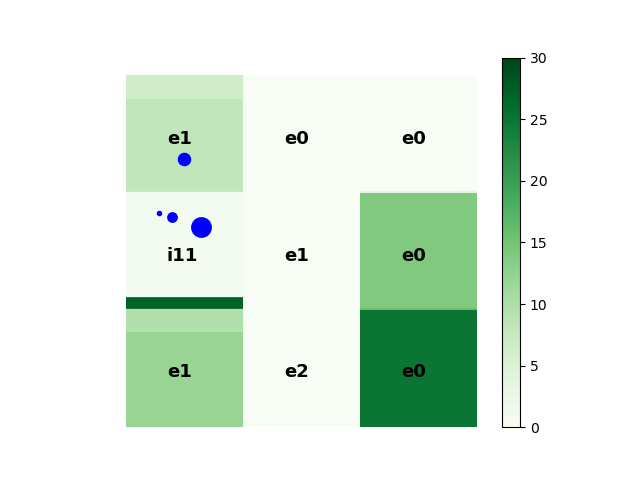
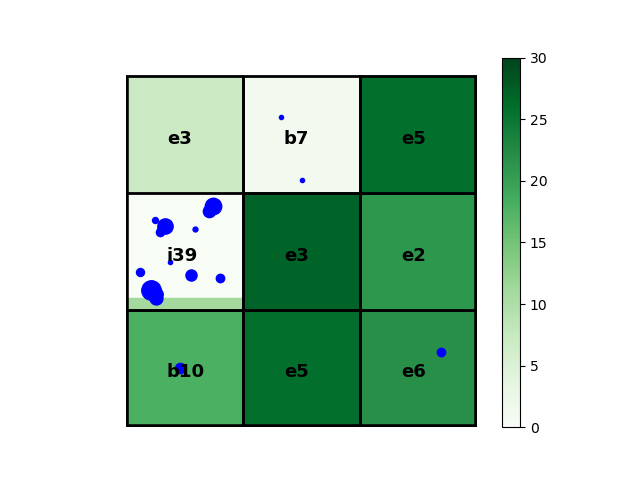
added random gradual decreasing payoff

Changed region(s): [[0.1875, 0.1562, 0.75, 0.9062], [0.4375, 0.25, 0.5, 0.3125], [0.2812, 0.2812, 0.3125, 0.3438]]

diff --git a/classCell.py b/classCell.py
@@ -1,71 +1,3 @@
-import numpy as np
-from phase import *
-import math
-
-class Cell():
-    def __init__(self, payoff, location):
-        self.payoff = payoff
-        self.location = location
-        self.hidden = True
-        self.phase = Phase.experimental
-        self.numHits = 0
-        self.lowerx, self.upperx = self.logiFunc()
-        self.numSciHits = 0
-
-    def __repr__(self):
-        "string representation of Cell"
-        return str(self.payoff)
-
-    def logiFunc(self):
-        lowSuccess = False
-        highSuccess  = False
-
-        while lowSuccess == False or highSuccess == False:
-            # set steepness and center parameters for logistic function
-            steepness = np.random.randint(1, 11)
-            center = np.random.randint(0, 10)
-            lowerx = 0
-            upperx = []
-            lowSuccess = False
-            highSuccess = False
-            for x in np.arange(0, 50, 0.01):
-                y = float(1/(1 + math.pow(math.e, -steepness*(x-center))))
-                if ((y - .01) <= 0.1) and math.floor(x) > 0:
-                    lowerx = math.floor(x)
-                    lowSuccess = True
-                    #self.phase = Phase.breakthrough
-                elif (.99 - y) <= 0.1:
-                    upperx.append(math.ceil(x))
-                    highSuccess = True
-                    #self.phase = Phase.incremental
-        return lowerx, min(upperx)
-
-    def cellQuery(self, board):
-        """returns payoff for each scientist based on conditions of a cell"""
-        original = self.payoff
-        sciPayoff = 0.0
-
-        if self.numHits > self.upperx:
-            self.phase = Phase.incremental
-        elif self.numHits > self.lowerx:
-            self.phase = Phase.breakthrough
-            self.hidden = False
-            # "discover" the cell once it hits breakthrough phase
-            if self.location not in board.discovered:
-                board.discovered.append(self.location)
-                board.undiscovered.remove(self.location)
-        if self.phase == Phase.experimental:
-            self.payoff = 0.8 * self.payoff
-            sciPayoff = 0.2 * original
-        elif self.phase == Phase.breakthrough:
-            self.payoff = 0.5 * self.payoff
-            sciPayoff = 0.5 * original
-        else:
-            self.payoff = 0.8 * self.payoff
-            sciPayoff = 0.2 * original
-        self.numHits += 1
-        return sciPayoff
-
 # import numpy as np
 # from phase import *
 # import math
@@ -77,7 +9,7 @@ class Cell():
 #         self.hidden = True
 #         self.phase = Phase.experimental
 #         self.numHits = 0
-#         self.lowerx, self.upperx, self.functionVals = self.logiFunc()
+#         self.lowerx, self.upperx = self.logiFunc()
 #         self.numSciHits = 0
 
 #     def __repr__(self):
@@ -94,7 +26,6 @@ class Cell():
 #             center = np.random.randint(0, 10)
 #             lowerx = 0
 #             upperx = []
-#             functionVals = {}
 #             lowSuccess = False
 #             highSuccess = False
 #             for x in np.arange(0, 50, 0.01):
@@ -107,13 +38,7 @@ class Cell():
 #                     upperx.append(math.ceil(x))
 #                     highSuccess = True
 #                     #self.phase = Phase.incremental
-            
-#             xval = 0
-#             while xval <= min(upperx):
-#                 yval = float(1/(1 + math.pow(math.e, -steepness*(x-center))))
-#                 functionVals[xval]=yval
-#                 xval += 1
-#         return lowerx, min(upperx), functionVals
+#         return lowerx, min(upperx)
 
 #     def cellQuery(self, board):
 #         """returns payoff for each scientist based on conditions of a cell"""
@@ -129,11 +54,101 @@ class Cell():
 #             if self.location not in board.discovered:
 #                 board.discovered.append(self.location)
 #                 board.undiscovered.remove(self.location)
-#         if self.phase == Phase.incremental:
-#             frac = np.random.random()
+#         if self.phase == Phase.experimental:
+#             self.payoff = 0.8 * self.payoff
+#             sciPayoff = 0.2 * original
+#         elif self.phase == Phase.breakthrough:
+#             self.payoff = 0.5 * self.payoff
+#             sciPayoff = 0.5 * original
 #         else:
-#             frac = self.functionVals[self.numHits]
-#         self.payoff = frac * self.payoff
-#         sciPayoff = (1 - frac) * original
+#             self.payoff = 0.8 * self.payoff
+#             sciPayoff = 0.2 * original
 #         self.numHits += 1
 #         return sciPayoff
+
+import numpy as np
+from phase import *
+import math
+
+class Cell():
+    def __init__(self, payoff, location):
+        self.payoff = payoff
+        self.location = location
+        self.hidden = True
+        self.phase = Phase.experimental
+        self.numHits = 0
+        self.lowerx, self.upperx, self.slopeVals = self.logiFunc(15, 10, 0.5)
+        self.numSciHits = 0
+
+    def __repr__(self):
+        "string representation of Cell"
+        return str(self.payoff)
+
+    def logiFunc(self, N, D, p):
+        lowSuccess = False
+        highSuccess  = False
+
+        while lowSuccess == False or highSuccess == False:
+            # set steepness and center parameters for logistic function
+            steepness = np.random.randint(1, 11)
+            center = np.random.randint(0, 15)
+            lowerx = 0
+            upperx = []
+            slopeVals = {}
+            lowSuccess = False
+            highSuccess = False
+            for x in np.arange(0, 50, 0.01):
+                y = float(1/(1 + math.pow(math.e, -steepness*(x-center))))
+                if ((y - .01) <= 0.1) and math.floor(x) > 0:
+                    lowerx = math.floor(x)
+                    lowSuccess = True
+                elif (.99 - y) <= 0.1:
+                    upperx.append(math.ceil(x))
+                    highSuccess = True
+            
+            xmax = min(upperx)
+            #Goal: to get from x=0 to x=xmax in ksteps
+            # - Chop interval into N pieces
+            yList = []
+            interval = xmax/N
+            for x in np.arange(0, xmax, interval/D):
+                yval = float(1/(1 + math.pow(math.e, -steepness*(x-center))))
+                yList += [yval]
+            # - for Scientist at time i, flip coin (with probability p) D times (number of microsteps)
+            stepSize = np.random.binomial(D*2, p, size=None)
+
+            #putting the slopes in a dictionary
+            prevY = 0
+            i = 0
+            while i <= xmax: 
+                if stepSize == 0:
+                    slope = 0
+                else:
+                    slope = (yList[i+stepSize] - prevY)/stepSize
+                slopeVals[i] = slope
+                prevY = yList[i+stepSize]
+                i += 1
+        return lowerx, xmax, slopeVals
+
+    def cellQuery(self, board):
+        """returns payoff for each scientist based on conditions of a cell"""
+        original = self.payoff
+        sciPayoff = 0.0
+
+        if self.numHits > self.upperx:
+            self.phase = Phase.incremental
+        elif self.numHits > self.lowerx:
+            self.phase = Phase.breakthrough
+            self.hidden = False
+            # "discover" the cell once it hits breakthrough phase
+            if self.location not in board.discovered:
+                board.discovered.append(self.location)
+                board.undiscovered.remove(self.location)
+        if self.phase == Phase.incremental:
+            frac = np.random.random()
+        else:
+            frac = self.slopeVals[self.numHits]
+        self.payoff = (1-frac) * self.payoff
+        sciPayoff = frac * original
+        self.numHits += 1
+        return sciPayoff

diff --git a/classBoard.py b/classBoard.py
@@ -50,14 +50,11 @@ class Board():
         original = plt.imshow(self.originalPays, cmap="Greens", vmin=0, vmax=30)
         plt.colorbar()
         plt.axis("off")
-        # fig, ax = plt.subplots()
 
         for i in range(self.rows):
             for j in range(self.cols):
                 cell = self.board[i][j]
-
                 # compare to original payoff color
-                
                 # we want at least some of the original payoff to show
                 if self.originalPays[j][i] != 0:
                     if cell.payoff/self.originalPays[j][i] < 0.1:
@@ -65,13 +62,13 @@ class Board():
                                 1, 0.9,
                                 fill=True,
                                 color=plotColors[j][i],
-                                linewidth=0.2)
+                                linewidth=0.4)
                     else:
                         rect=patches.Rectangle((i-0.5,j-0.51),
                                 1, (1 - (cell.payoff/self.originalPays[j][i])),
                                 fill=True,
                                 color=plotColors[j][i],
-                                linewidth=0.2)
+                                linewidth=0.4)
                     plt.gca().add_patch(rect)
                 # finding the number of scientists on each cell each round
                 cell.numSciHits = 0
@@ -103,8 +100,18 @@ class Board():
                 # add this for debugging payoffs: {f'{cell.payoff:.1f}'}
                 plt.annotate(f"{cell.phase.name[0]}{cell.numHits}", xy = (i, j), xytext=(i-0.15, j+0.075),
                     fontsize=13, fontweight='bold')
+                gridlines = patches.Rectangle((i-0.5,j-0.5),
+                                1, 1,
+                                fill=False,
+                                color="k",
+                                linewidth=2)
+                plt.gca().add_patch(gridlines)
+        # finish plotting gridlines on the edges of the board
+        plt.axhline(self.rows-0.5, linewidth=4, color="k")
+        plt.axvline(-0.5, ymax=0.94, linewidth=4, color="k")
+        plt.axvline(self.cols-0.5, ymax=0.94, linewidth=4, color="k")
+
         plt.savefig(f'plots/plot{numRun}.png')
         plt.clf()
         plt.cla()
         plt.close()
-        # fig.clf()

diff --git a/classScientist.py b/classScientist.py
@@ -23,6 +23,7 @@ class Scientist():
         """"generates a probability distribution over the cells"""
         citToCareer = (self.citcount-(31 - self.career))
         # if they have a low citToCareer difference, then they value citations more
+        # also, ensure numbers are in reasonable range
         if citToCareer <= -1:
             c = weights["citation"] * abs(citToCareer)
         elif citToCareer >= 1:
@@ -87,9 +88,27 @@ class Scientist():
 
         denominator = 0
         for sci in val:
-            denominator += np.exp(sci.getStarFactor()) 
+            star = sci.getStarFactor()
+            # ensure numbers are in reasonable range
+            if star <= -1:
+                star = 1/abs(star)
+            elif star >= 1:
+                star = star
+            else:
+                star = 1
+
+            denominator += np.exp(star) 
+
         for i in range(len(val)):
-            numerator = np.exp(val[i].getStarFactor())
+            star = val[i].getStarFactor()
+            if star <= -1:
+                star = 1/abs(star)
+            elif star >= 1:
+                star = star
+            else:
+                star = 1
+
+            numerator = np.exp(star)
             probabilities[i] = numerator / denominator
 
         return probabilities

diff --git a/Run.py b/Run.py
@@ -5,8 +5,8 @@ from classScientist import *
 
 weights = {
     "citation" : 0, 
-    "impact" : 1,
-    "exploration" : 0.5
+    "impact" : 0.1,
+    "exploration" : 1
 }
 
 def oneRun(board, cellsHit, numRun):
@@ -47,7 +47,9 @@ def batchRun(board, numScientists, numRuns):
                 dept.remove(scientist)
                 dept.append(Scientist())
         # print statistics at the end of the run
+        print()
         print("Board with payoff values: ", oneRun(board, cellsHit, j+1))
+        print()
         # print("Department: ", dept)
     currTotal = sum(board.flatten(board.getPayoffs()))
     print()
@@ -63,5 +65,5 @@ def batchRun(board, numScientists, numRuns):
             save_all=True, duration=500, loop=1)
     return
 
-board = Board(3, 3, 30)
-batchRun(board, 4, 20)
+board = Board(3, 3, 0)
+batchRun(board, 20, 50)
